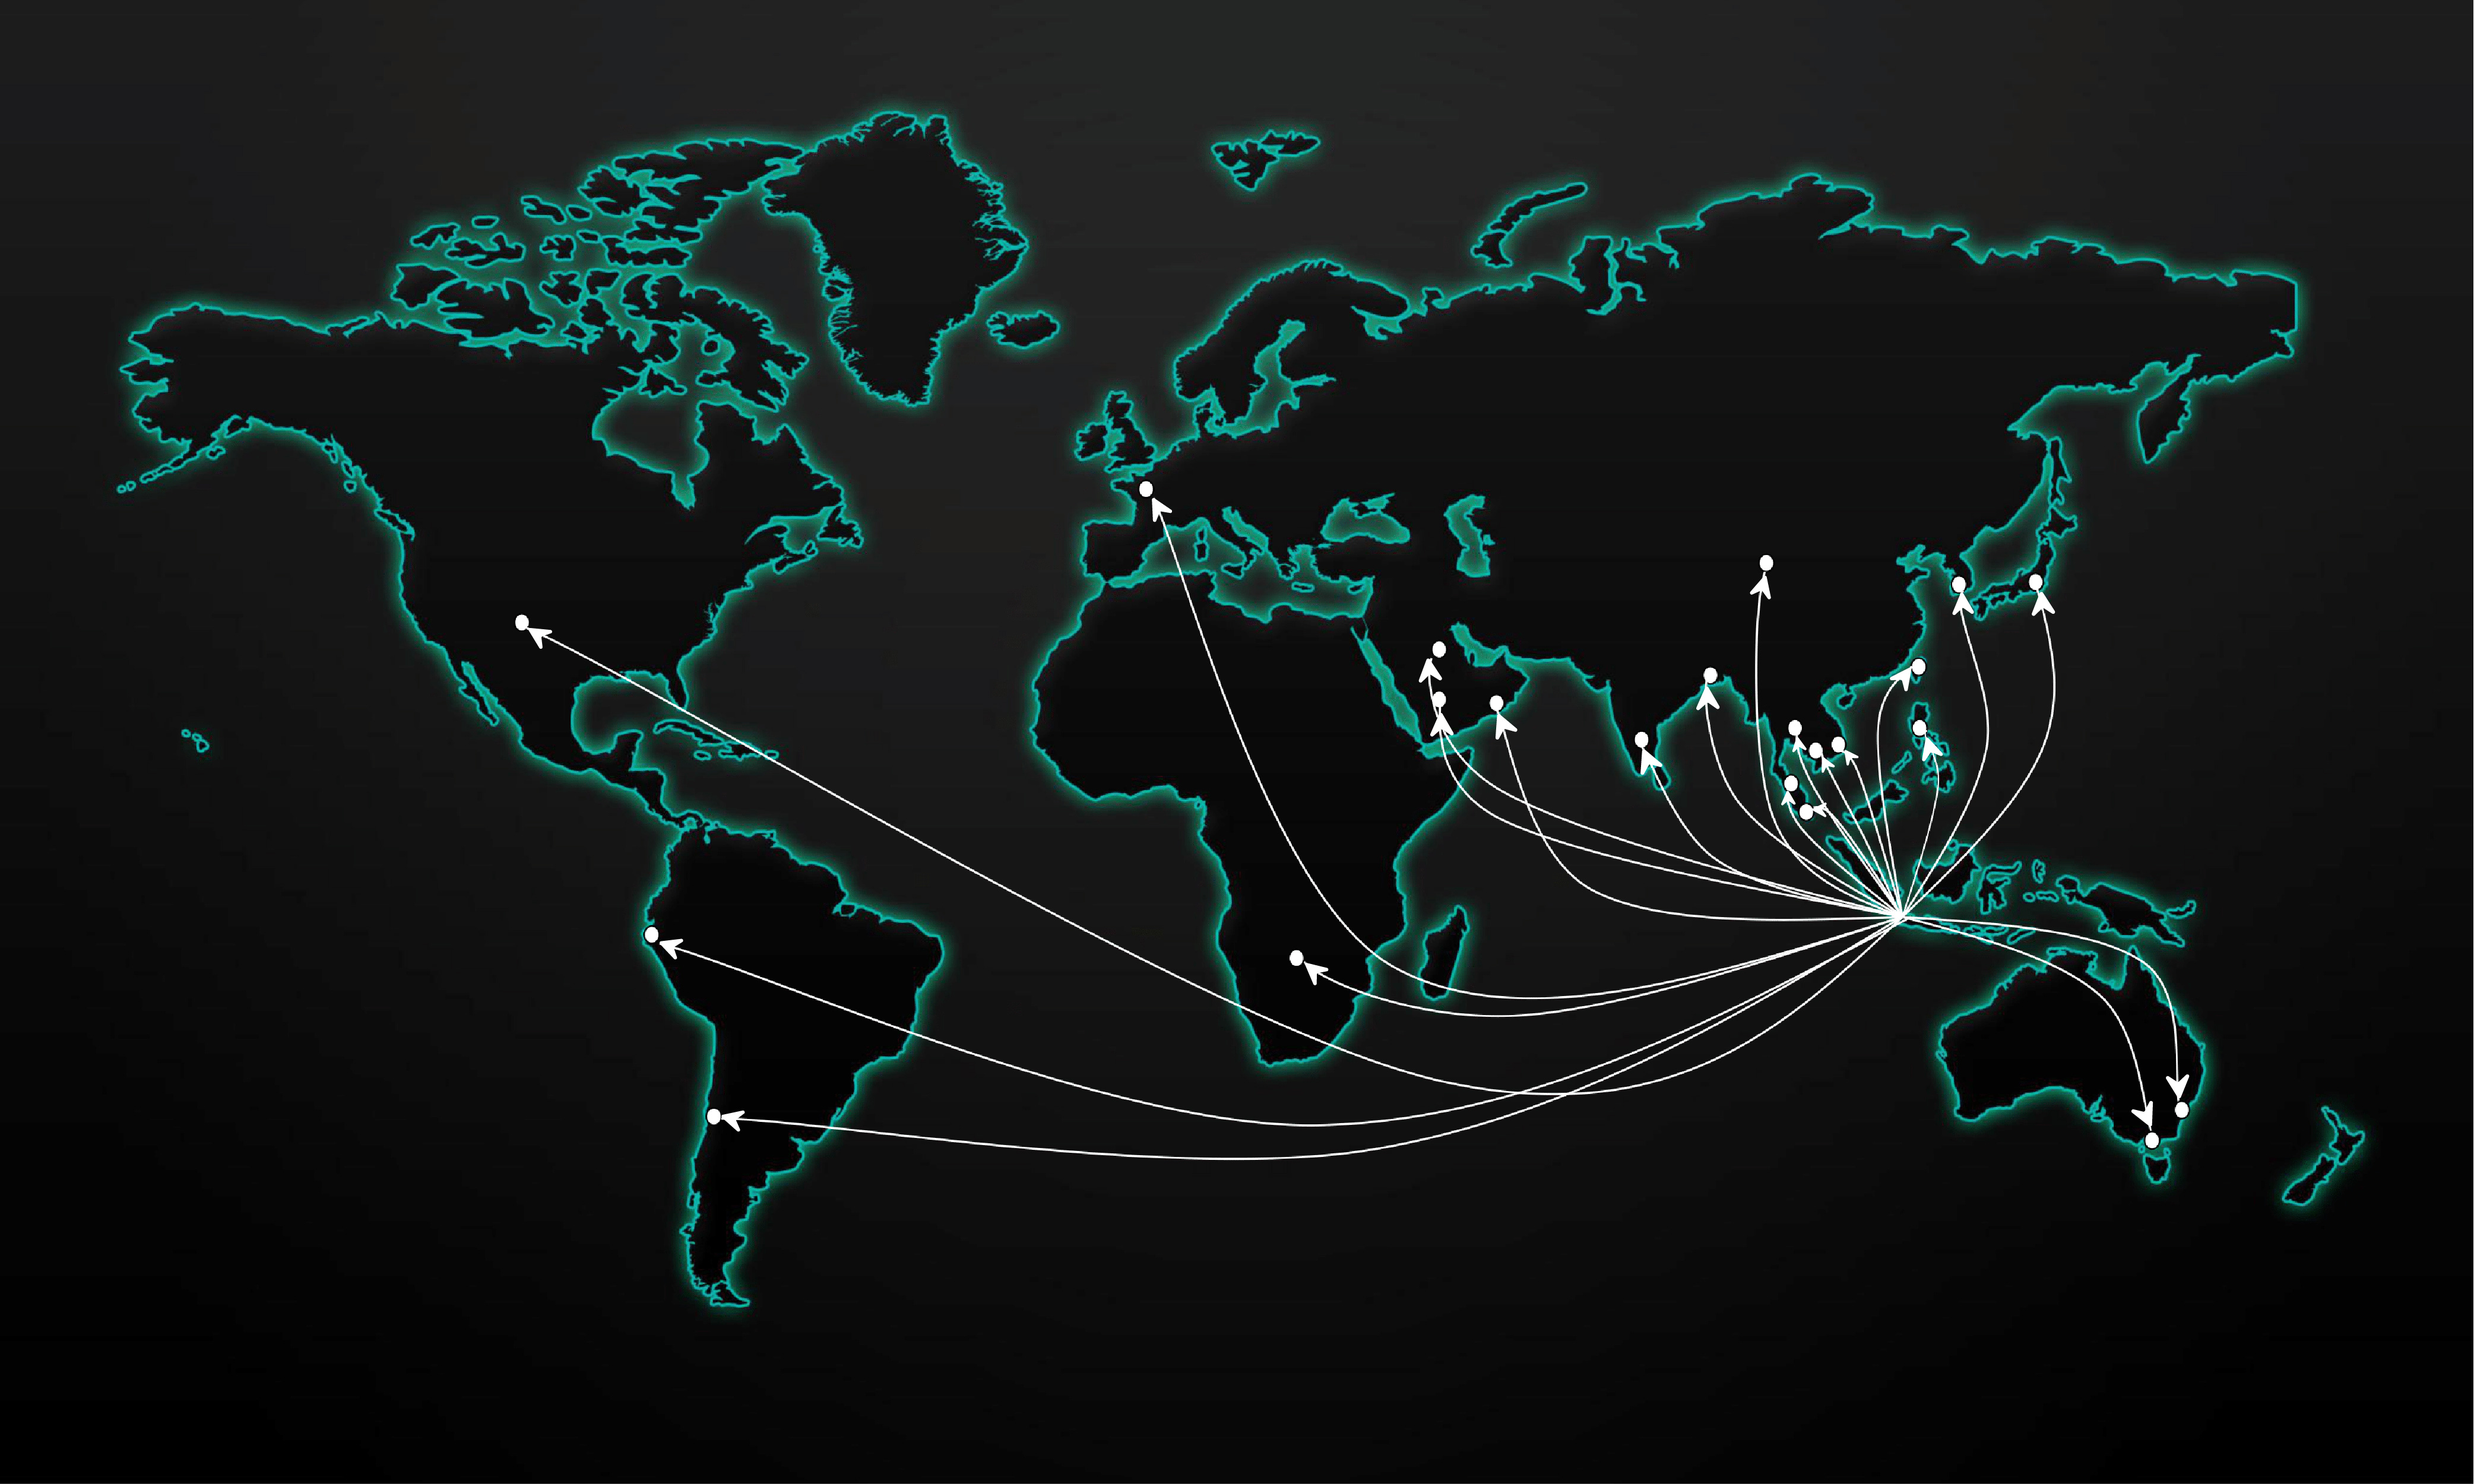
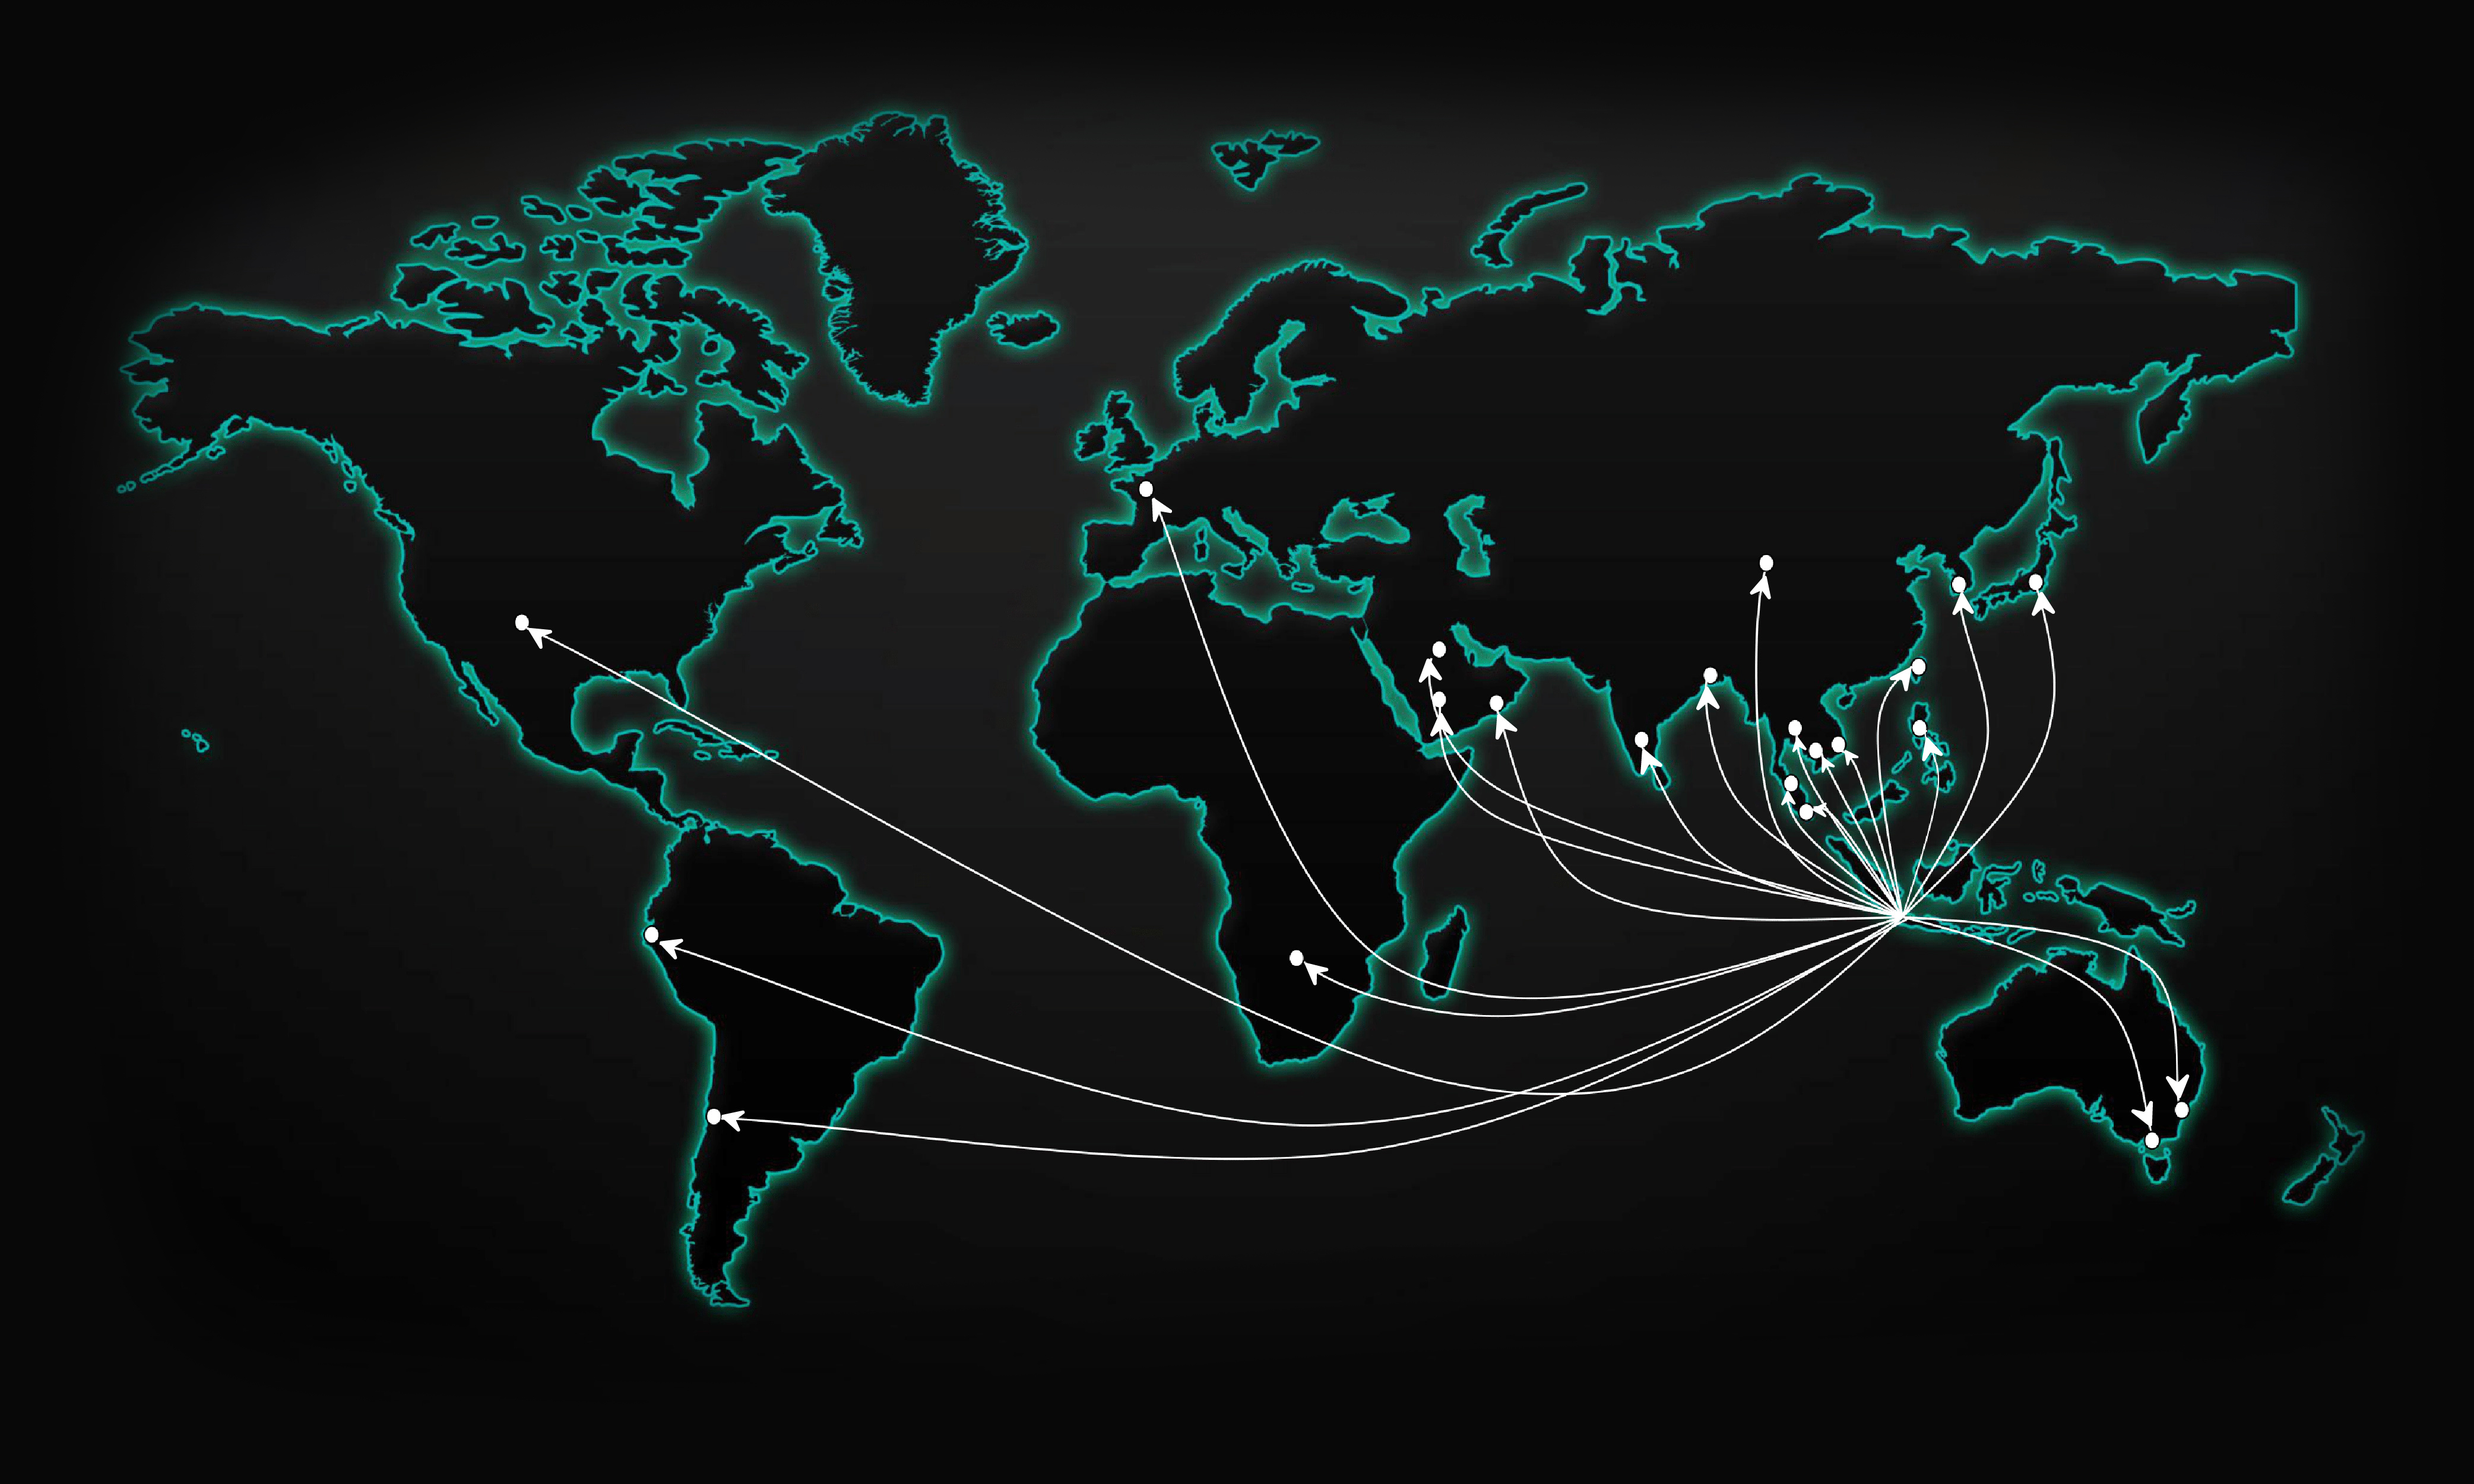
updates

diff --git a/index.html b/index.html
@@ -174,7 +174,7 @@
                 </div>
                 <div class="item">
                     <figure class="hero-img">
-                        <img src="asset/images/hero-map.jpg" alt="">
+                        <img src="asset/images/world-map.jpg" alt="">
                     </figure>
                     <div class="container">
                         <div class="columns is-vcentered">
@@ -197,7 +197,9 @@
                         </div>
                     </div>
                 </div>
-                <div class="item">
+
+                <!--CENTER DAN RATA KANAN-->
+                <!--div class="item">
                     <figure class="hero-img">
                         <img src="asset/images/bank/img-1.jpg" alt="">
                     </figure>
@@ -243,7 +245,7 @@
                             </div>
                         </div>
                     </div>
-                </div>
+                </div-->
             </div>
         </section>
 
@@ -251,7 +253,7 @@
             <div class="container">
                 <div class="columns">
                     <div class="column is-5 pr">
-                        <figure class="pic-1">
+                        <!--figure class="pic-1">
                             <img src="asset/images/bank/img-2.jpg" alt="">
                         </figure>
                         <figure class="pic-2">
@@ -259,7 +261,10 @@
                         </figure>
                         <div class="about-ico">
                             <img src="asset/images/iconoir_leaderboard-star.png" alt="">
-                        </div>
+                        </div-->
+                        <figure>
+                            <img src="asset/images/img-about.png" alt="">
+                        </figure>
                     </div>
                     <div class="column is-1">
                         <div class="spacer"></div>
@@ -367,7 +372,7 @@
                 <div class="columns">
                     <div class="column is-12">
                         <figure>
-                            <img src="asset/images/shape-2.png" alt="">
+                            <img src="asset/images/world-map.jpg" alt="">
                         </figure>
                     </div>
                 </div>

diff --git a/about.html b/about.html
@@ -196,7 +196,7 @@
             <div class="container">
                 <div class="columns">
                     <div class="column is-5 pr">
-                        <figure class="pic-1">
+                        <!--figure class="pic-1">
                             <img src="asset/images/bank/img-2.jpg" alt="">
                         </figure>
                         <figure class="pic-2">
@@ -204,7 +204,10 @@
                         </figure>
                         <div class="about-ico">
                             <img src="asset/images/iconoir_leaderboard-star.png" alt="">
-                        </div>
+                        </div-->
+                        <figure>
+                            <img src="asset/images/img-about.png" alt="">
+                        </figure>
                     </div>
                     <div class="column is-1">
                         <div class="spacer"></div>

diff --git a/asset/css/main.css b/asset/css/main.css
@@ -663,6 +663,11 @@ footer p.info i {
 
 .world-market {
   border-bottom: 1px solid #dedede;
+  background: #080808;
+}
+.world-market .section-title h4,
+.world-market .section-title h3{
+  color: #fff;
 }
 
 @media screen and (min-width: 1408px) {
